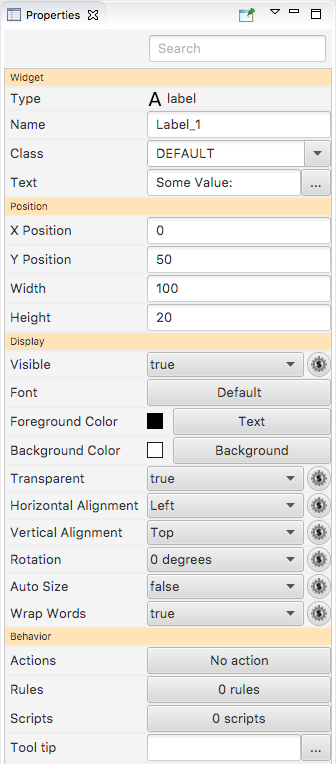
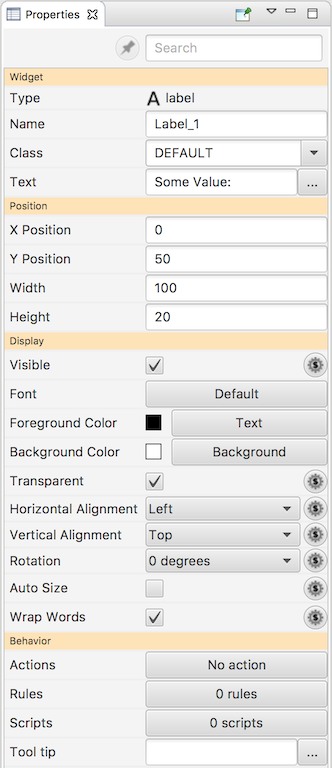
Added pin search button.

Changed region(s): [[0.0, 0.0, 1.0, 1.0]]

diff --git a/org.csstudio.display.builder.editor.rcp/doc/display.builder.html b/org.csstudio.display.builder.editor.rcp/doc/display.builder.html
@@ -737,7 +737,8 @@ and except for very few static properties it allows entering or selecting differ
 
 The search field allows to filter properties, showing only the ones containing the typed text (case insensitive).
 Pressing the clear button (the small &#10006; button inside the right edge of the search field) will reset the search, 
-displaying all properties. Each time a new widget is selected, the search field is automatically reset.
+displaying all properties. Each time a new widget is selected, the search field is automatically reset, unless the pin
+button is depressed, in which case the same search is applied to the newly selected widget too.
 
 <h3>Property Names</h3>
 

diff --git a/org.csstudio.display.builder.editor/src/org/csstudio/display/builder/editor/properties/PropertyPanel.java b/org.csstudio.display.builder.editor/src/org/csstudio/display/builder/editor/properties/PropertyPanel.java
@@ -8,23 +8,32 @@
 package org.csstudio.display.builder.editor.properties;
 
 
+import static org.csstudio.display.builder.editor.Plugin.logger;
+
 import java.util.ArrayList;
 import java.util.Collections;
 import java.util.LinkedHashSet;
 import java.util.List;
 import java.util.Set;
+import java.util.logging.Level;
 
 import org.controlsfx.control.textfield.TextFields;
 import org.csstudio.display.builder.editor.DisplayEditor;
+import org.csstudio.display.builder.editor.Messages;
 import org.csstudio.display.builder.model.DisplayModel;
 import org.csstudio.display.builder.model.Widget;
 import org.csstudio.display.builder.model.WidgetProperty;
 import org.csstudio.display.builder.representation.javafx.AutocompleteMenu;
+import org.csstudio.display.builder.util.ResourceUtil;
 
 import javafx.geometry.Insets;
 import javafx.geometry.Pos;
 import javafx.scene.control.ScrollPane;
 import javafx.scene.control.TextField;
+import javafx.scene.control.ToggleButton;
+import javafx.scene.control.Tooltip;
+import javafx.scene.image.Image;
+import javafx.scene.image.ImageView;
 import javafx.scene.layout.BorderPane;
 import javafx.scene.layout.HBox;
 import javafx.scene.layout.Priority;
@@ -39,6 +48,7 @@ public class PropertyPanel extends BorderPane
 {
     private final DisplayEditor        editor;
     private final PropertyPanelSection section;
+    private final ToggleButton         pinSearchButton;
 
     /** @param selection Selection handler
      *  @param undo 'Undo' manager
@@ -47,7 +57,18 @@ public class PropertyPanel extends BorderPane
     {
 
         this.editor = editor;
-        section = new PropertyPanelSection();
+        this.section = new PropertyPanelSection();
+        this.pinSearchButton = new ToggleButton("P");
+
+        try {
+            pinSearchButton.setGraphic(new ImageView(new Image(ResourceUtil.openPlatformResource("platform:/plugin/org.csstudio.display.builder.editor/icons/pin.png"))));
+        } catch ( Exception ex ) {
+            logger.log(Level.WARNING, "Cannot load macro edit image.", ex);
+        }
+        pinSearchButton.getStyleClass().add("macro_button");
+        pinSearchButton.setDisable(true);
+        pinSearchButton.setTooltip(new Tooltip(Messages.PinSearchButton));
+        HBox.setHgrow(pinSearchButton, Priority.NEVER);
 
         final TextField searchField = TextFields.createClearableTextField();
         searchField.setPromptText("Search");
@@ -57,7 +78,7 @@ public class PropertyPanel extends BorderPane
         final HBox toolsPane = new HBox(6);
         toolsPane.setAlignment(Pos.CENTER_RIGHT);
         toolsPane.setPadding(new Insets(6));
-        toolsPane.getChildren().add(searchField);
+        toolsPane.getChildren().addAll(pinSearchButton, searchField);
 
         final ScrollPane scrollPane = new ScrollPane();
         scrollPane.setFitToWidth(true);
@@ -68,11 +89,17 @@ public class PropertyPanel extends BorderPane
         setCenter(scrollPane);
 
         // Track currently selected widgets
-        editor.getWidgetSelectionHandler().addListener(this::setSelectedWidgets);
-        editor.getWidgetSelectionHandler().addListener(widgets ->
-        {
+        editor.getWidgetSelectionHandler().addListener(widgets -> {
+
             searchField.setDisable(widgets.isEmpty() && editor.getModel() == null);
-            searchField.setText(null);
+
+            if ( !pinSearchButton.isSelected() ) {
+                searchField.setText(null);
+                filterProperties(null);
+            } else {
+                filterProperties(searchField.getText());
+            }
+
         });
 
         setMinHeight(0);
@@ -110,9 +137,16 @@ public class PropertyPanel extends BorderPane
         final List<Widget> selection = editor.getWidgetSelectionHandler().getSelection();
 
         if (search == null || search.trim().isEmpty())
+        {
             setSelectedWidgets(selection);
+            pinSearchButton.setSelected(false);
+            pinSearchButton.setDisable(true);
+        }
         else
         {
+
+            pinSearchButton.setDisable(false);
+
             List<Widget> other;
             Set<WidgetProperty<?>> properties;
             final DisplayModel model = editor.getModel();
@@ -141,6 +175,7 @@ public class PropertyPanel extends BorderPane
                     filtered.add(prop);
 
             updatePropertiesView(filtered, other);
+
         }
     }
 

diff --git a/org.csstudio.display.builder.editor/src/org/csstudio/display/builder/editor/Messages.java b/org.csstudio.display.builder.editor/src/org/csstudio/display/builder/editor/Messages.java
@@ -38,6 +38,7 @@ public class Messages extends NLS
     public static String MoveToBack;
     public static String MoveToFront;
     public static String MoveUp;
+    public static String PinSearchButton;
     public static String PointCount_Fmt;
     public static String Redo_TT;
     public static String RemoveElement;
